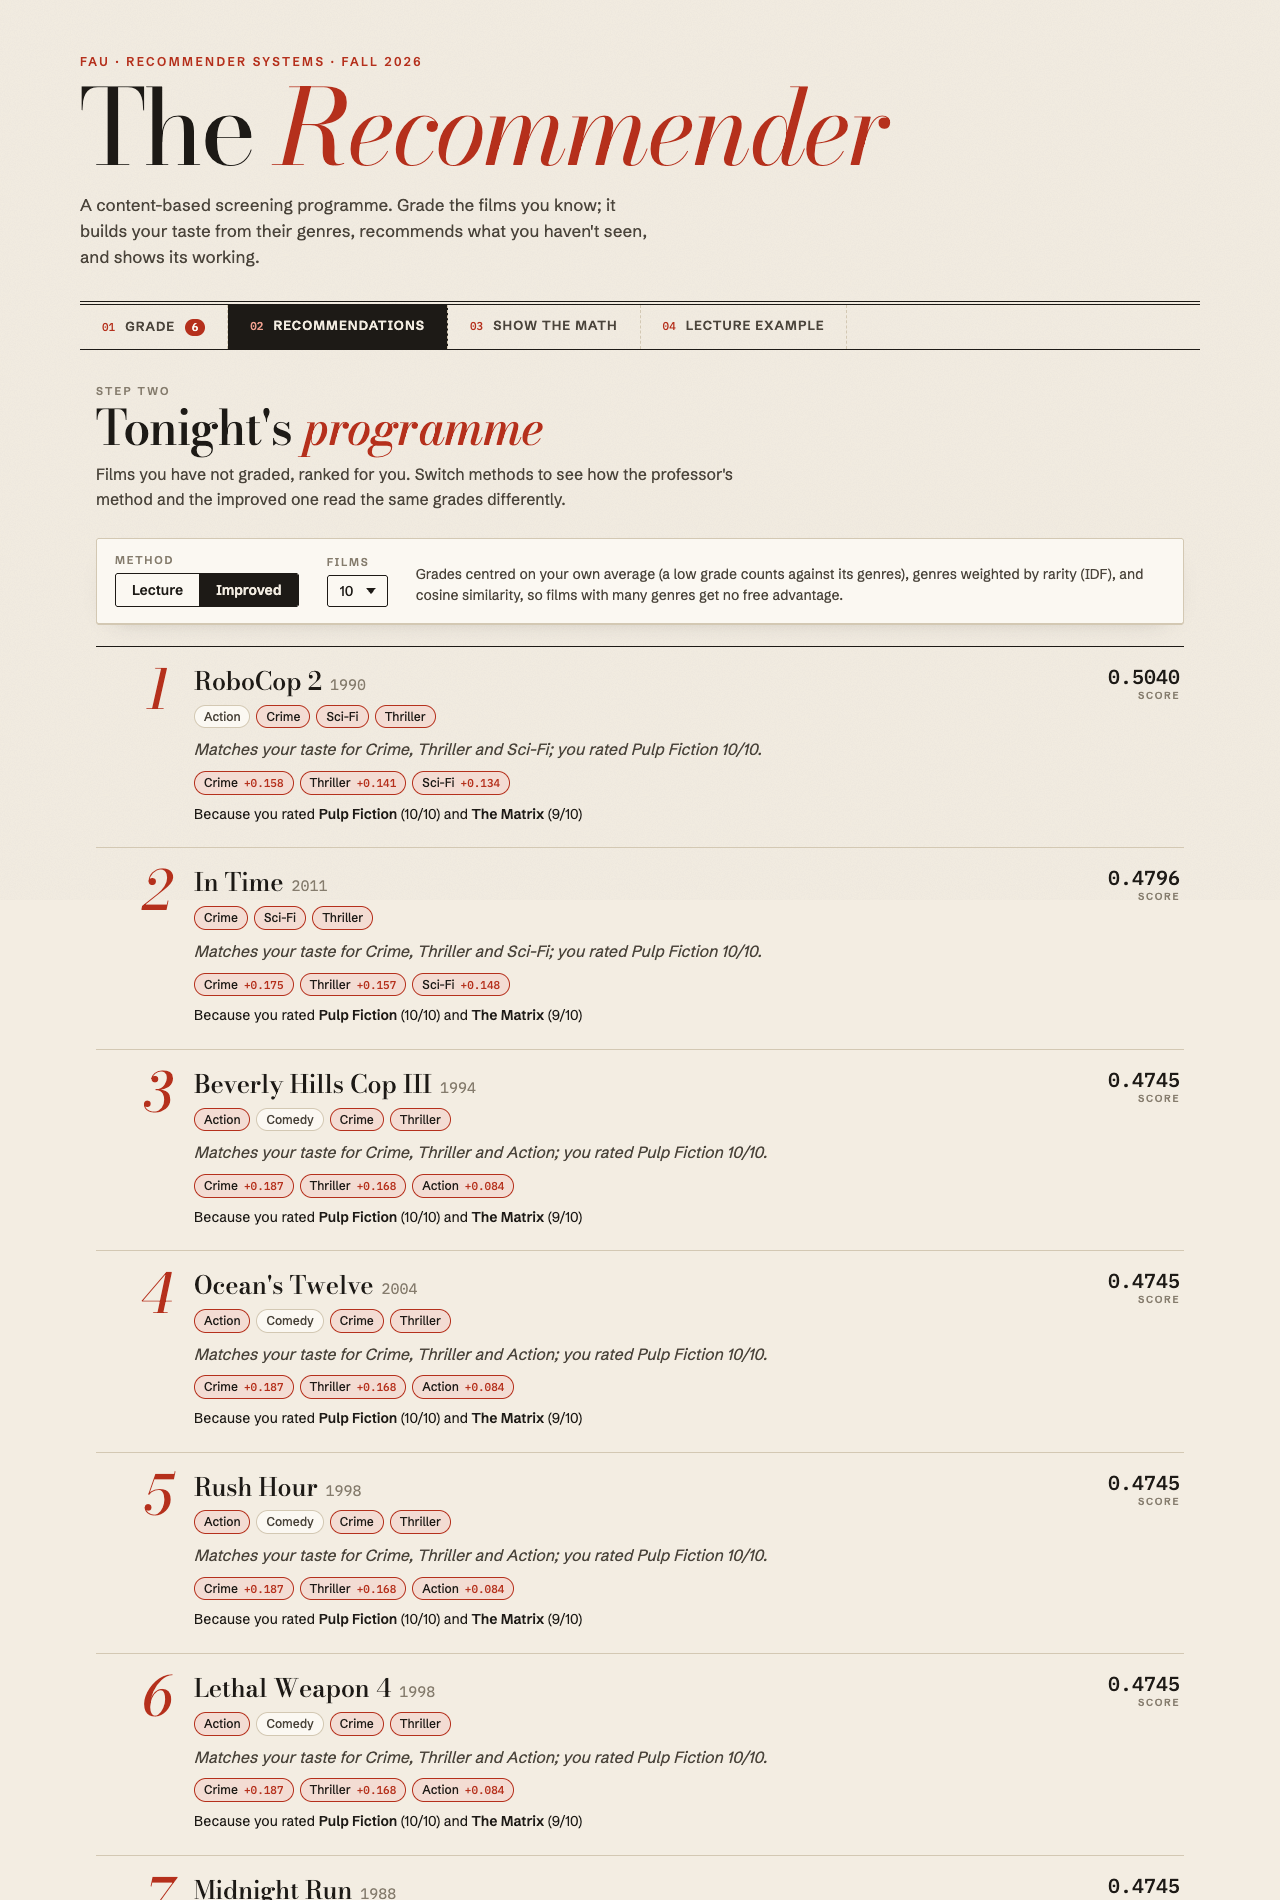
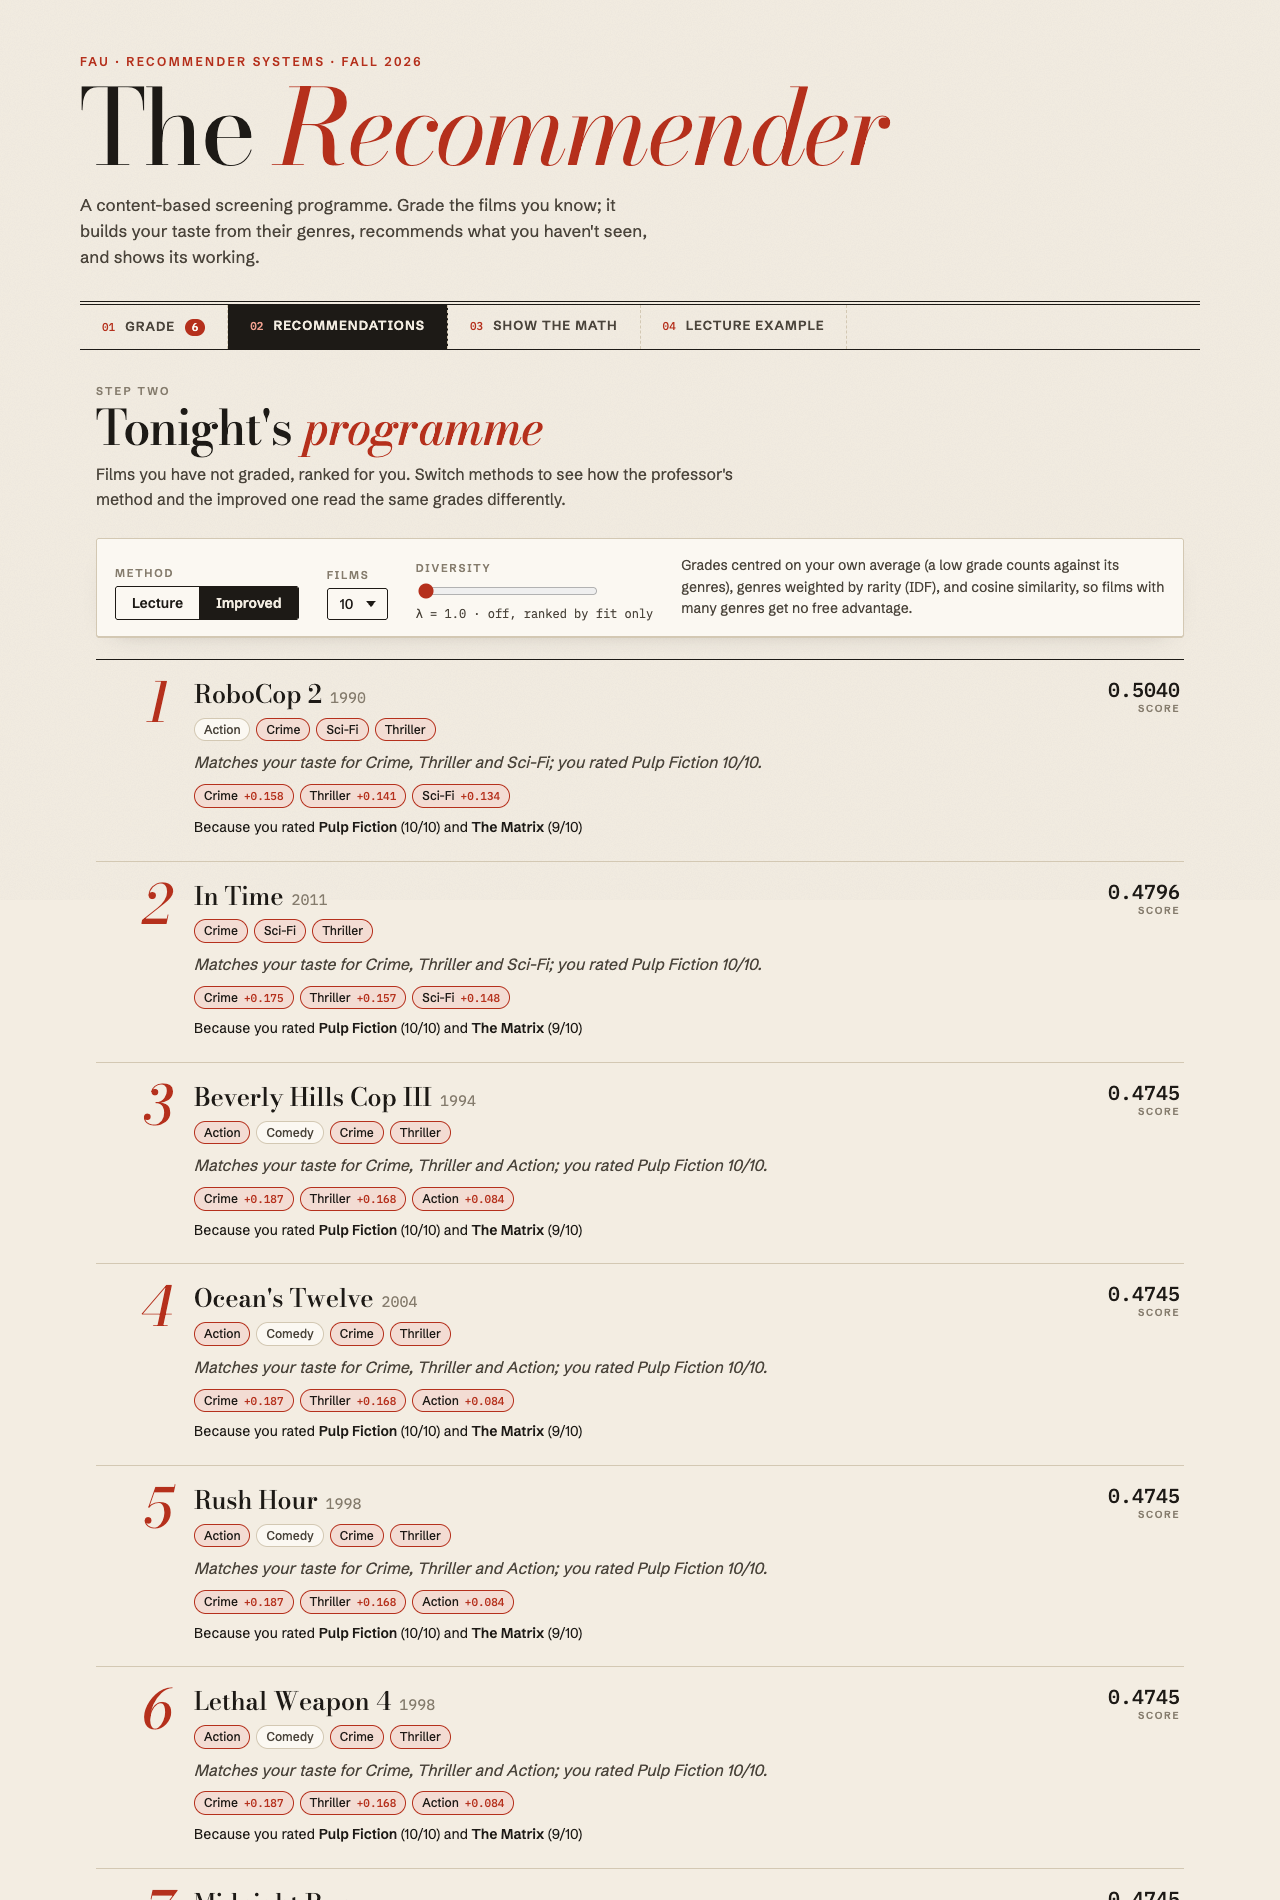
Add the diversity slider and onboarding to the UI
A diversity slider (lambda) on the recommendations, a note when MMR has
re-ranked, the starter set for users with fewer than 5 grades, and a
banner that counts the grades still needed. The e2e script now checks
onboarding, the banner and the slider (25 checks).

diff --git a/src/main/resources/static/js/recommendations.js b/src/main/resources/static/js/recommendations.js
@@ -1,6 +1,7 @@
 // View 2 · Recommendations: the ranked programme, with why each film is on it.
 
 import { api } from './api.js';
+import { MIN_GRADES, store } from './store.js';
 import { empty, fixed, genreChips, grade, h, loading, remember, reveal, segmented, select, showError, signed } from './ui.js';
 
 export const METHODS = [
@@ -18,9 +19,15 @@ export const METHOD_NOTES = {
 export function renderRecommendations(root) {
 	let method = METHOD_NOTES[remember.get('recsys.method')] ? remember.get('recsys.method') : 'improved';
 	let k = [5, 10, 20].includes(Number(remember.get('recsys.k'))) ? Number(remember.get('recsys.k')) : 10;
+	let lambda = clampLambda(Number(remember.get('recsys.lambda', '1')));
 	let sequence = 0;
 
 	const note = h('p', { class: 'method-note', text: METHOD_NOTES[method] });
+	const diversity = diversityField(lambda, (value) => {
+		lambda = value;
+		remember.set('recsys.lambda', String(value));
+		load();
+	});
 	const list = h('div');
 
 	root.append(
@@ -41,6 +48,7 @@ export function renderRecommendations(root) {
 				remember.set('recsys.k', String(value));
 				load();
 			}),
+			diversity,
 			note),
 		list);
 
@@ -48,9 +56,9 @@ export function renderRecommendations(root) {
 		const mine = ++sequence;
 		list.replaceChildren(loading('Ranking 9,742 films'));
 		try {
-			const result = await api.recommendations(method, k);
+			const result = await api.recommendations(method, k, lambda);
 			if (mine === sequence) {
-				list.replaceChildren(programme(result, method));
+				list.replaceChildren(programme(result, method, lambda));
 			}
 		} catch (error) {
 			if (mine === sequence) {
@@ -66,13 +74,52 @@ export function renderRecommendations(root) {
 	};
 }
 
-function programme(result, method) {
+/**
+ * The diversity slider runs from 0 (ranked by fit only) to 1 (as varied as possible); MMR's λ is its complement, so
+ * λ = 1 means no re-ranking.
+ */
+function diversityField(lambda, onChange) {
+	const value = h('output', { class: 'slider__value', for: 'diversity' });
+	const describe = (l) => {
+		const text = l >= 1 ? 'off, ranked by fit only' : l >= 0.7 ? 'a little variety' : l >= 0.4 ? 'more variety'
+			: 'lots of variety';
+		value.textContent = `λ = ${l.toFixed(1)} · ${text}`;
+	};
+	const slider = h('input', {
+		type: 'range',
+		id: 'diversity',
+		class: 'slider',
+		min: '0',
+		max: '1',
+		step: '0.1',
+		value: String(1 - lambda),
+		'aria-describedby': 'diversity-value',
+		oninput: () => describe(clampLambda(1 - Number(slider.value))),
+		onchange: () => onChange(clampLambda(1 - Number(slider.value))),
+	});
+	value.id = 'diversity-value';
+	describe(lambda);
+	return h('div', { class: 'field' }, h('label', { class: 'field__label', for: 'diversity', text: 'Diversity' }), slider,
+		value);
+}
+
+function clampLambda(value) {
+	return Number.isFinite(value) ? Math.round(Math.min(1, Math.max(0, value)) * 10) / 10 : 1;
+}
+
+function programme(result, method, lambda) {
 	const fallback = result.fallback === 'POPULARITY';
+	const graded = store.grades.size;
 	return h('div', {},
 		fallback && h('div', { class: 'banner', role: 'note' },
 			h('strong', { text: 'Intermission: not enough to go on yet' }),
-			h('span', { text: 'Grade a few films first (five is a good start). Until then, this is simply what '
-				+ 'MovieLens viewers rated most.' })),
+			h('span', { text: `You have graded ${graded} of the ${MIN_GRADES} films needed for a personal list. Until `
+				+ 'then, this is simply what MovieLens viewers rated most.' }),
+			h('a', { href: '#grade', text: 'Grade a few films →' })),
+		lambda < 1 && result.items.length > 1 && h('p', { class: 'mmr-note' },
+			h('strong', { text: `Re-ranked for variety (MMR, λ = ${lambda.toFixed(1)}). ` }),
+			'Each pick is penalized for sharing genres with the films above it, so scores are no longer in order: '
+			+ 'they still show how well each film fits your taste.'),
 		result.items.length === 0
 			? empty('Nothing left to recommend', 'You have graded every film that qualifies.')
 			: h('ol', { class: 'programme', 'aria-label': `Recommendations, ${method} method` },

diff --git a/src/main/resources/static/js/grade.js b/src/main/resources/static/js/grade.js
@@ -1,7 +1,7 @@
 // View 1 · Grade: search MovieLens titles, grade 1–10, keep a ledger of what you graded.
 
 import { api } from './api.js';
-import { store } from './store.js';
+import { MIN_GRADES, store } from './store.js';
 import { empty, genreChips, grade as gradeText, h, loading, reveal, showError, toast } from './ui.js';
 
 const PAGE_SIZE = 12;
@@ -49,6 +49,10 @@ export function renderGrade(root) {
 			results.replaceChildren(loading('Searching'));
 		}
 		try {
+			if (!text && nextPage === 0 && store.grades.size < MIN_GRADES) {
+				await showStarterSet(mine);
+				return;
+			}
 			const result = await api.searchMovies(text, nextPage, PAGE_SIZE);
 			if (mine !== sequence) {
 				return;
@@ -72,6 +76,21 @@ export function renderGrade(root) {
 				showError(error, 'Search failed');
 			}
 		}
+	}
+
+	/** New users: well-known films spread across genres, so the first grades say a lot about taste. */
+	async function showStarterSet(mine) {
+		const starter = await api.starterSet(15);
+		if (mine !== sequence) {
+			return;
+		}
+		results.replaceChildren();
+		cards.clear();
+		starter.forEach((movie, i) => results.append(reveal(filmCard(movie), i)));
+		const genres = new Set(starter.flatMap((movie) => movie.genres));
+		meta.textContent = `New here? Start with these ${starter.length} well-known films, picked to cover `
+			+ `${genres.size} genres. Grade the ones you remember, or search for any other title.`;
+		more.hidden = true;
 	}
 
 	function filmCard(movie) {
@@ -151,7 +170,7 @@ export function renderGrade(root) {
 
 	const unsubscribe = store.subscribe(renderLedger);
 	renderLedger();
-	search('', 0);
+	(store.ready ?? Promise.resolve()).finally(() => search('', 0));
 	return () => {
 		unsubscribe();
 		clearTimeout(timer);

diff --git a/src/main/resources/static/js/store.js b/src/main/resources/static/js/store.js
@@ -10,14 +10,22 @@ function emit() {
 	}
 }
 
+/** Below this many grades the server answers with popular films (recsys.recommend.min-grades). */
+export const MIN_GRADES = 5;
+
 export const store = {
 	/** movieId → { movieId, title, year, score, updatedAt } */
 	grades: new Map(),
 
-	async load() {
-		const list = await api.grades();
-		this.grades = new Map(list.map((g) => [g.movieId, g]));
-		emit();
+	/** Settles once the first load has finished (or failed), so views can tell "no grades" from "not loaded yet". */
+	ready: null,
+
+	load() {
+		this.ready = api.grades().then((list) => {
+			this.grades = new Map(list.map((g) => [g.movieId, g]));
+			emit();
+		});
+		return this.ready;
 	},
 
 	async grade(movieId, score) {

diff --git a/src/main/resources/static/js/api.js b/src/main/resources/static/js/api.js
@@ -50,7 +50,8 @@ export const api = {
 	grades: () => request('/api/me/grades'),
 	putGrade: (movieId, score) => request(`/api/me/grades/${movieId}`, { method: 'PUT', body: { score } }),
 	deleteGrade: (movieId) => request(`/api/me/grades/${movieId}`, { method: 'DELETE' }),
-	recommendations: (method, k) => request(`/api/me/recommendations?${query({ method, k })}`),
+	recommendations: (method, k, lambda = 1) => request(`/api/me/recommendations?${query({ method, k, lambda })}`),
+	starterSet: (size = 15) => request(`/api/onboarding/starter-set?${query({ size })}`),
 	math: (method, k) => request(`/api/me/recommendations/math?${query({ method, k })}`),
 	lectureExample: () => request('/api/demo/lecture-example'),
 };

diff --git a/src/main/resources/static/css/app.css b/src/main/resources/static/css/app.css
@@ -305,6 +305,26 @@ a {
 	appearance: none;
 }
 
+.slider {
+	width: 180px;
+	accent-color: var(--red);
+}
+
+.slider__value {
+	color: var(--ink-soft);
+	font: 400 12px/1 var(--mono);
+}
+
+.mmr-note {
+	max-width: 80ch;
+	margin: 0 0 16px;
+	padding: 10px 14px;
+	border-left: 3px solid var(--red);
+	background: var(--card);
+	color: var(--ink-soft);
+	font-size: 14px;
+}
+
 .method-note {
 	flex: 1 1 260px;
 	margin: 0;
